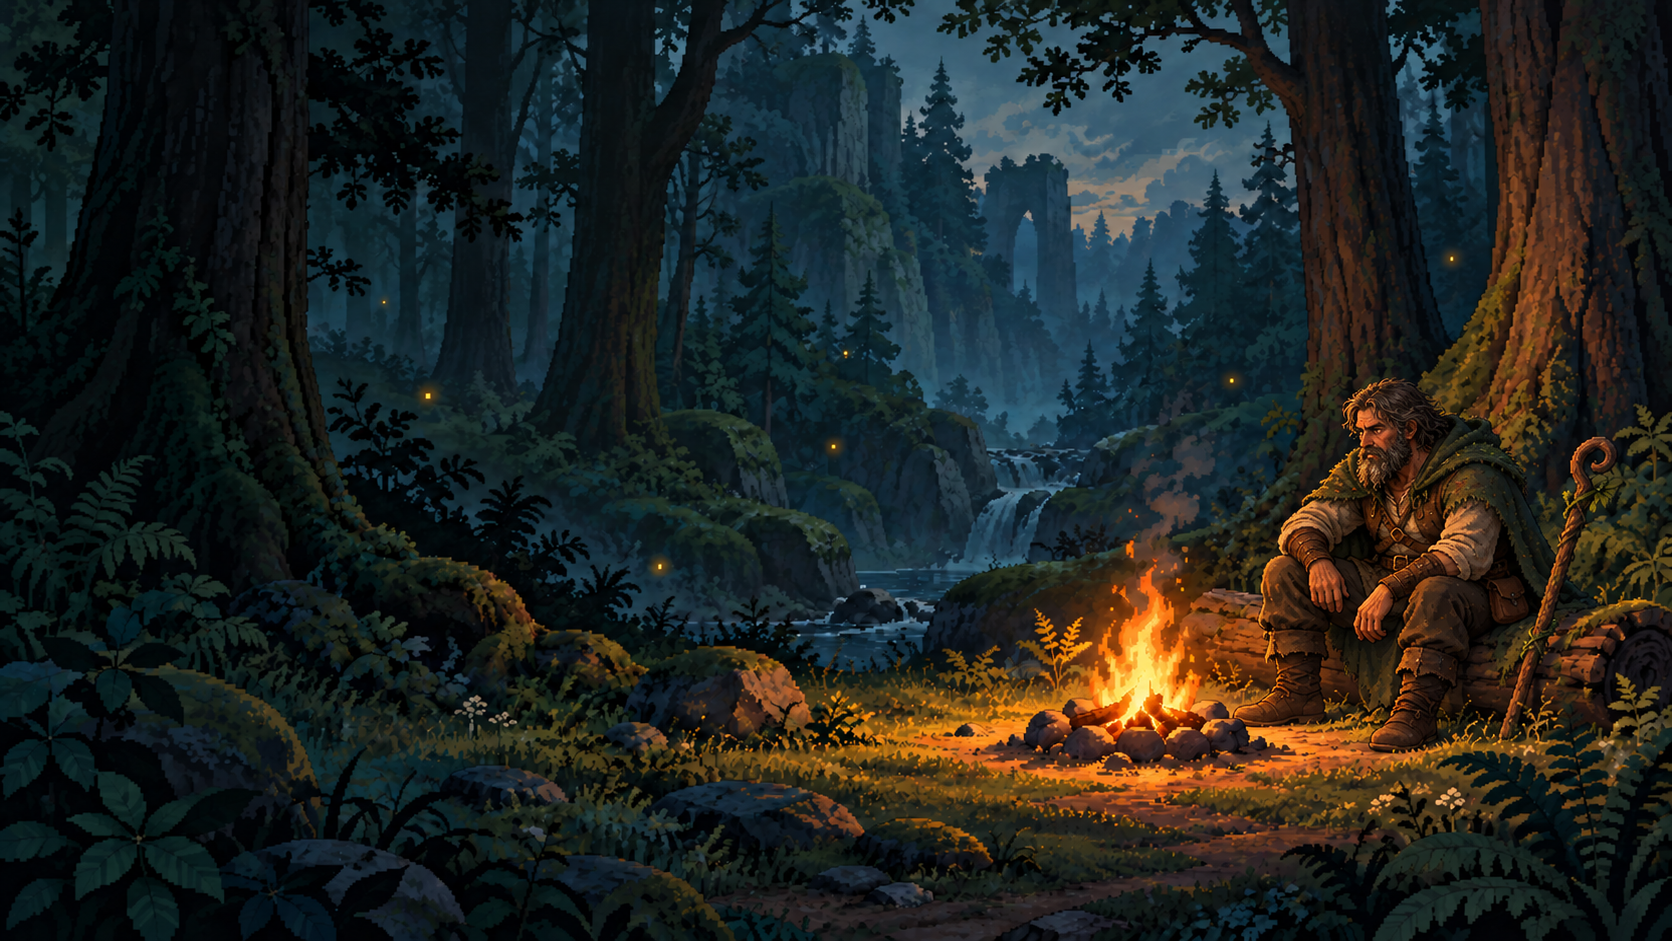
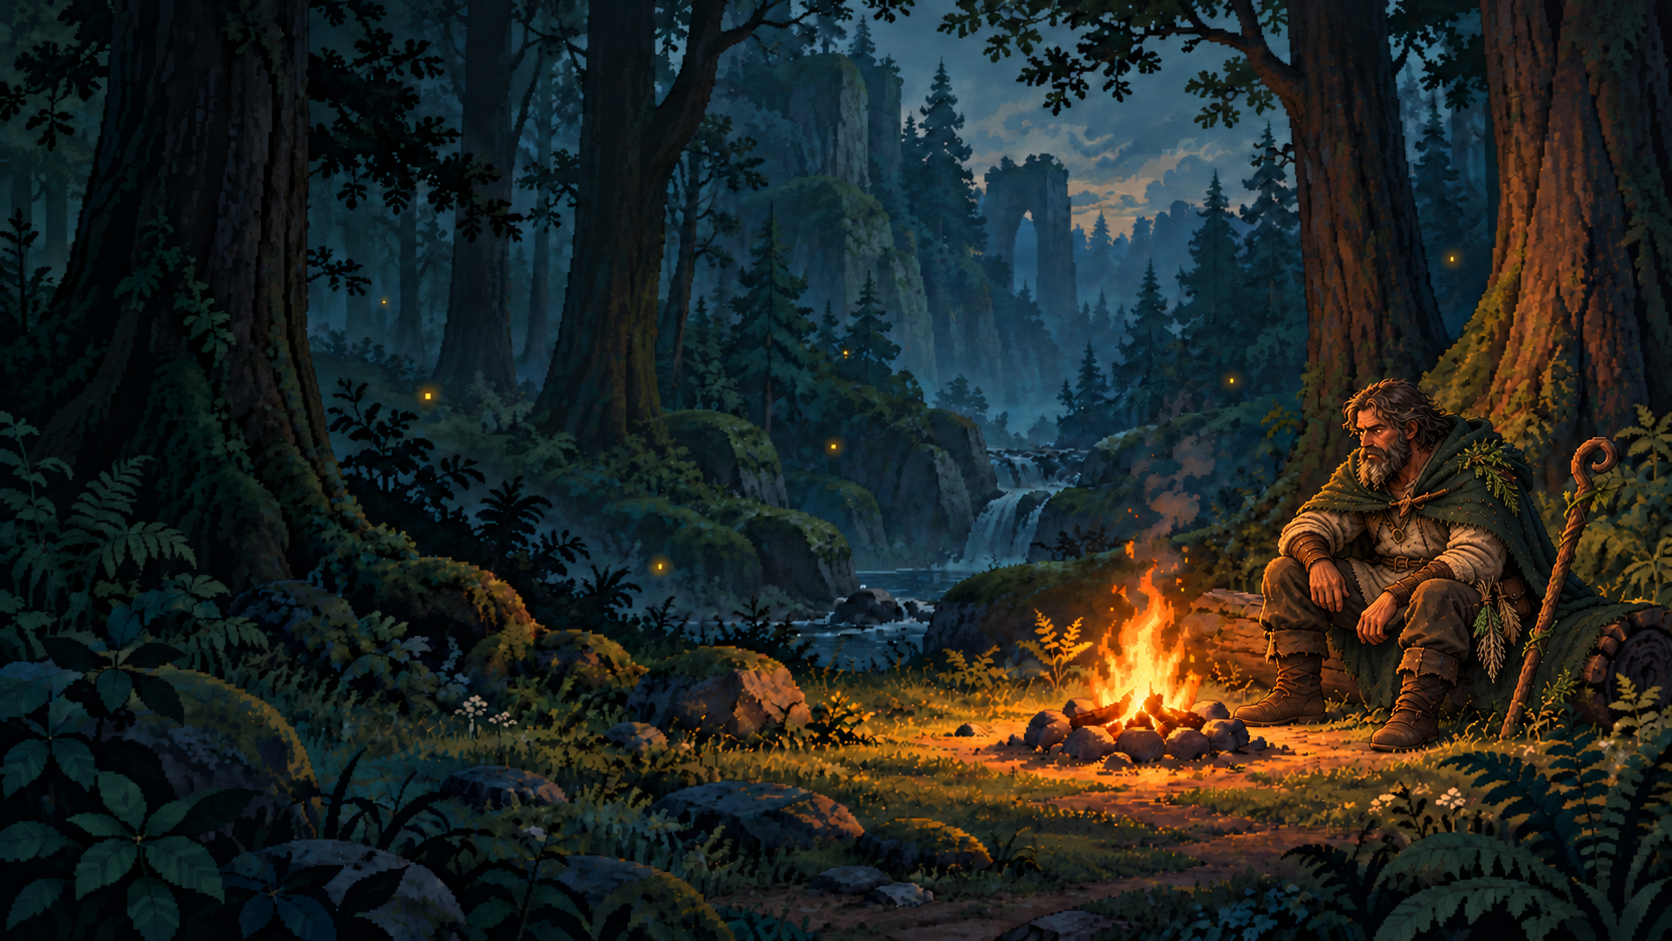
Give menu druid cloth garments and herbal equipment

diff --git a/docs/concepts/README.md b/docs/concepts/README.md
@@ -6,7 +6,7 @@
 
 ![Крепкий друид-мужчина 45+ в походной экипировке у костра](menu-forest-v2.png)
 
-Пользователю понравились общая композиция и визуальное направление первого изображения. Актуальный образ героя: крепкий зрелый мужчина примерно 45–55 лет, с неухоженной бородой, растрёпанными волосами, грубой кожаной экипировкой, штанами и тяжёлыми сапогами. Переработаны фигура, посадка и вся одежда. Лес, костёр и место для меню сохранены как основа композиции.
+Пользователю понравились общая композиция и визуальное направление первого изображения. Актуальный образ героя: крепкий зрелый мужчина примерно 45–55 лет, с неухоженной бородой, растрёпанными волосами, грубой тканевой туникой и плащом, штанами и тяжёлыми сапогами. Уменьшено количество кожаных ремней, на пояс добавлены связки трав, растительные акценты на плаще собраны в отдельные места вместо равномерного покрытия. Лес, костёр, фигура и место для меню сохранены как основа композиции.
 
 Показ генерации в чате у пользователя оказался недоступен. По его просьбе использовать другой способ передачи актуальное изображение сохранено здесь. Для следующих правок обновляем этот же файл и ссылку вместо добавления новых вариантов в папку. История изменений сохраняется в Git.
 
@@ -14,6 +14,7 @@
 
 - Друид обязательно мужчина 45+ с бородой и зрелыми чертами лица.
 - Борода неухоженная, образ более дикий, фигура и экипировка мужественные; меняем персонажа целиком, а не только лицо.
+- Герой должен читаться как друид: больше ткани, меньше кожаных ремней, травы и коренья на поясе. Растения на плаще расположены отдельными неравномерными акцентами; сам плащ выглядит тканевым.
 - Будущие кнопки «Играть» и другие пункты меню располагаются слева от костра.
 - Образ героя остаётся магическим друидом без превращений в животных.
 
